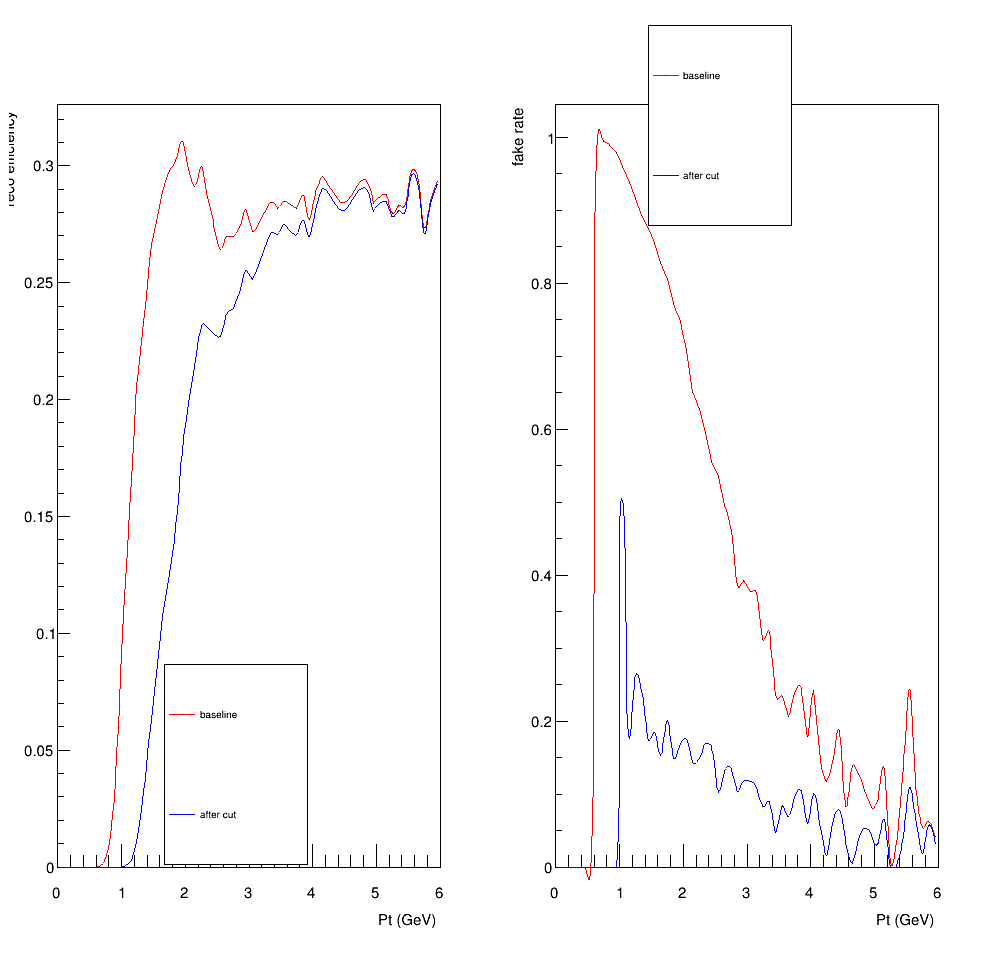
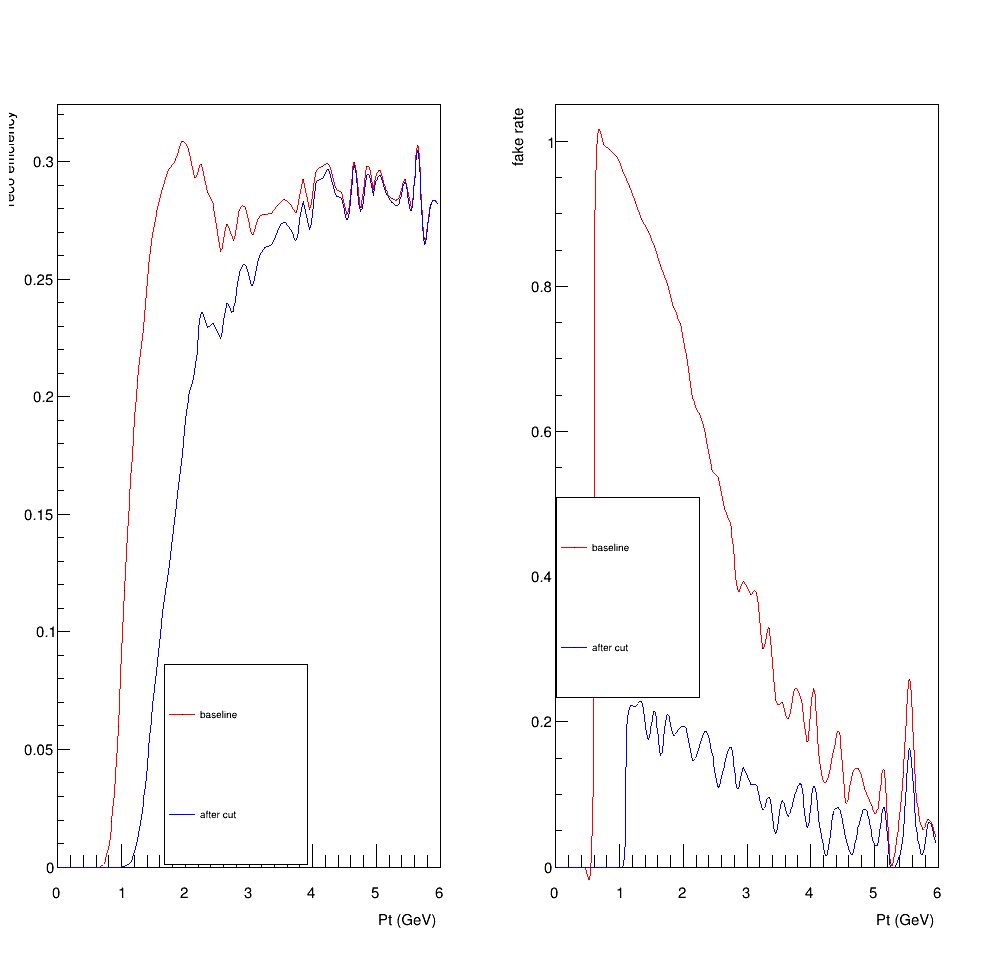
updates

diff --git a/root_scripts/tmva/cut_test_TMVA.C b/root_scripts/tmva/cut_test_TMVA.C
@@ -97,8 +97,8 @@ TCanvas* cut_test_from_name(const char* filename) {
 	std::cout << "Read file..." << std::endl;
 	
   	TFile *myFile    = TFile::Open(filename);
-    TTree *read_tree = (TTree*)myFile->Get("myTree");
-    TTree *gen_tree  = (TTree*)myFile->Get("genTree");
+    TTree *read_tree = (TTree*)myFile->Get("muTree_test");
+    TTree *gen_tree  = (TTree*)myFile->Get("genTree_test");
 
 	std::cout << "Set branches adress..." << std::endl;
 

diff --git a/root_scripts/tmva/pre_processing_TMVA.C b/root_scripts/tmva/pre_processing_TMVA.C
@@ -268,7 +268,7 @@ void tmva_pre_processing_from_file(const char* filename) {
 	   		}
 
 	    	write_reco_mu_isFake     = !isTrueMuon;
-	    	write_reco_mu_isGEM      = hasGEM ? false : reco_mu_isGEM[i];
+	    	write_reco_mu_isGEM      = hasGEM ? reco_mu_isGEM[i] : false;
 	    	write_reco_isTracker     = reco_isTracker    [i];
 	    	write_reco_isGlobal      = reco_isGlobal     [i];
 	    	write_nHitsMu            = nHitsMu           [i];
